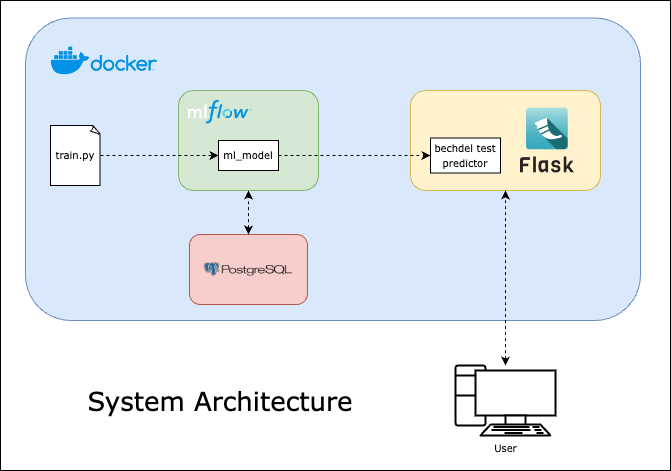
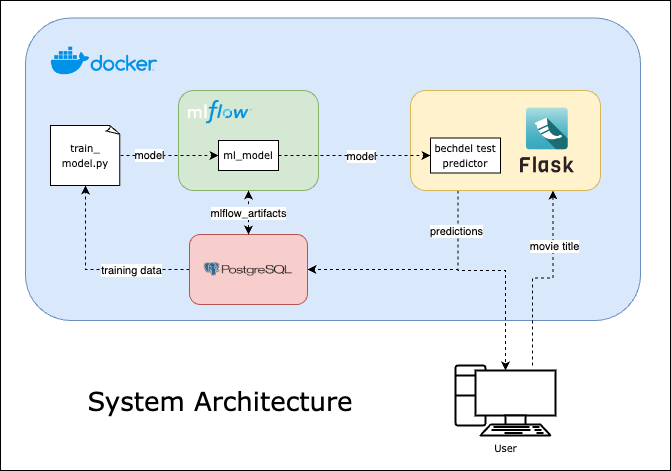
add logging of model predictions

diff --git a/src/bechdel_test_predictor/logging/crud.py b/src/bechdel_test_predictor/logging/crud.py
@@ -1,0 +1,66 @@
+from traceback import print_exc
+
+import sqlalchemy
+
+from bechdel_test_predictor.logging.models import base
+
+
+class Crud:
+    def __init__(
+        self,
+        connection_string="sqlite:///log_db.sqlite3",
+        encoding="utf-8",
+        pool_size=10,
+        max_overflow=20,
+        pool_recycle=3600,
+    ):
+        self.connection_string = connection_string
+        self.encoding = encoding
+        self.pool_size = pool_size
+        self.max_overflow = max_overflow
+        self.pool_recycle = pool_recycle
+        self.engine = None
+        self.session = None
+
+    def initiate(self):
+        self.create_engine()
+        self.create_session()
+        self.create_tables()
+
+    def create_engine(self):
+        self.engine = sqlalchemy.create_engine(self.connection_string)
+
+    def create_session(self):
+        self.session = sqlalchemy.orm.Session(bind=self.engine)
+
+    def create_tables(self):
+        base.metadata.create_all(self.engine)
+
+    def insert(self, instances):
+        try:
+            self.session.add(instances)
+            self.session.commit()
+            self.session.flush()
+        except Exception:
+            self.session.rollback()
+            raise
+
+    def __del__(self):
+        self.close_session()
+        self.close_all_connections()
+
+    def close_session(self):
+        try:
+            self.session.close()
+        except Exception:
+            print_exc()
+        else:
+            self.session = None
+
+    def close_all_connections(self):
+        try:
+            self.engine.dispose()
+        except Exception:
+            print_exc()
+        else:
+            self.engine = None

diff --git a/src/bechdel_test_predictor/logging/handler.py b/src/bechdel_test_predictor/logging/handler.py
@@ -1,0 +1,56 @@
+# handler.py
+import os
+from logging import Handler, getLogger
+from traceback import print_exc
+
+from bechdel_test_predictor.logging.crud import Crud
+from bechdel_test_predictor.logging.models import Log
+
+my_crud = Crud(
+    connection_string=os.environ["DB_CONNECTION_STRING"],
+    encoding="utf-8",
+    pool_size=10,
+    max_overflow=20,
+    pool_recycle=3600,
+)
+
+my_crud.initiate()
+
+
+class DBHandler(Handler):
+    backup_logger = None
+
+    def __init__(self, level=0, backup_logger_name=None):
+        super().__init__(level)
+        if backup_logger_name:
+            self.backup_logger = getLogger(backup_logger_name)
+
+    def emit(self, record):
+        try:
+            message = self.format(record)
+
+            try:
+                new_log = Log(
+                    module=record.module,
+                    thread_name=record.threadName,
+                    file_name=record.filename,
+                    func_name=record.funcName,
+                    level_name=record.levelname,
+                    line_no=record.lineno,
+                    process_name=record.processName,
+                    message=message,
+                )
+                # raise
+
+                my_crud.insert(instances=new_log)
+            except Exception:
+                if self.backup_logger:
+                    try:
+                        getattr(self.backup_logger, record.levelname.lower())(record.message)
+                    except Exception:
+                        print_exc()
+                else:
+                    print_exc()
+
+        except Exception:
+            print_exc()

diff --git a/src/bechdel_test_predictor/bechdel.py b/src/bechdel_test_predictor/bechdel.py
@@ -3,8 +3,11 @@ from typing import Dict
 import pandas as pd
 from mlflow.pyfunc import PyFuncModel
 
+from bechdel_test_predictor.logging.utils import get_logger
 from bechdel_test_predictor.movie import Movie, MovieClient, MovieProcessor
 from bechdel_test_predictor.prediction import Prediction
+
+db_logger = get_logger()
 
 
 class BechdelAPI:
@@ -30,4 +33,12 @@ class BechdelAPI:
         movie = self.get_movie(title)
         processed_movie = self.process_movie(movie)
         prediction = self.get_prediction(processed_movie)
+
+        log_output = {
+            "input_title": title,
+            "returned_title": movie.title,
+            "prediction": prediction,
+        }
+        db_logger.info(log_output)
+
         return self.format_prediction(title=movie.title, prediction=prediction)

diff --git a/src/bechdel_test_predictor/logging/models.py b/src/bechdel_test_predictor/logging/models.py
@@ -1,0 +1,20 @@
+import datetime
+
+from sqlalchemy import Column, DateTime, Integer, String, Text
+from sqlalchemy.ext.declarative import declarative_base
+
+base = declarative_base()
+
+
+class Log(base):
+    __tablename__ = "model_logs"
+    id = Column(Integer, primary_key=True, autoincrement=True)
+    time = Column(DateTime, nullable=False, default=datetime.datetime.now)
+    level_name = Column(String(10), nullable=True)
+    module = Column(String(200), nullable=True)
+    thread_name = Column(String(200), nullable=True)
+    file_name = Column(String(200), nullable=True)
+    func_name = Column(String(200), nullable=True)
+    line_no = Column(Integer, nullable=True)
+    process_name = Column(String(200), nullable=True)
+    message = Column(Text)

diff --git a/src/bechdel_test_predictor/logging/utils.py b/src/bechdel_test_predictor/logging/utils.py
@@ -1,0 +1,21 @@
+from logging import basicConfig, getLogger, INFO, Formatter
+
+from bechdel_test_predictor.logging.handler import DBHandler
+
+
+def get_logger():
+    basicConfig(
+        format='%(asctime)s - %(name)s - %(levelname)s - %(message)s',
+        datefmt='%d-%b-%y %H:%M:%S',
+        level=INFO,
+    )
+
+    format = Formatter('%(asctime)s - %(name)s - %(levelname)s - %(message)s')
+
+    db_logger = getLogger("db_logger")
+    db_handler = DBHandler(backup_logger_name='backup_logger')
+    db_handler.setLevel(INFO)
+    db_handler.setFormatter(format)
+    db_logger.addHandler(db_handler)
+
+    return db_logger

diff --git a/docs/system_architecture.md b/docs/system_architecture.md
@@ -5,7 +5,7 @@
 
 Above is a diagram of the deployment architecture. The deployment consists of 3 key services, each deployed to their own container within the Docker network.
 1. The Mlflow server, which is responsible for housing the trained models so that they are accessible by the wider app.
-2. The PSQL deployment, which provides SQL storage for the training data as well as artifact storage for Mlflow. An external database for storage is a requirement for Mlflow.
+2. The PSQL deployment, which provides a SQL database for storing the training data and the models prediction logs. It also provides artifact storage for Mlflow. An external database for storage is a requirement for Mlflow.
 3. The Flask app, which is the primary service the user will interact with. It contains the `bechdel-test-predictor` code as a backend, and a basic html web page for the frontend interface.
 
 

diff --git a/README.md b/README.md
@@ -24,6 +24,8 @@ This will do four things:
 3. Deploy the Mlflow instance in a docker container, using the PSQL database as it's artifact storage.
 4. Deploy the flask app. If no model exists in Mlflow, the app will not deploy and will endlessly retry to find a model. As soon as a model is trained, the app will deploy fully and the url will be available.
 
+For more details, check out the [system_architecture](https://github.com/nedwebster/bechdel-test-predictor/blob/main/docs/system_architecture.md) docs.
+
 ### Train Model
 To train a new version of the model, run the following command
 ```sh
